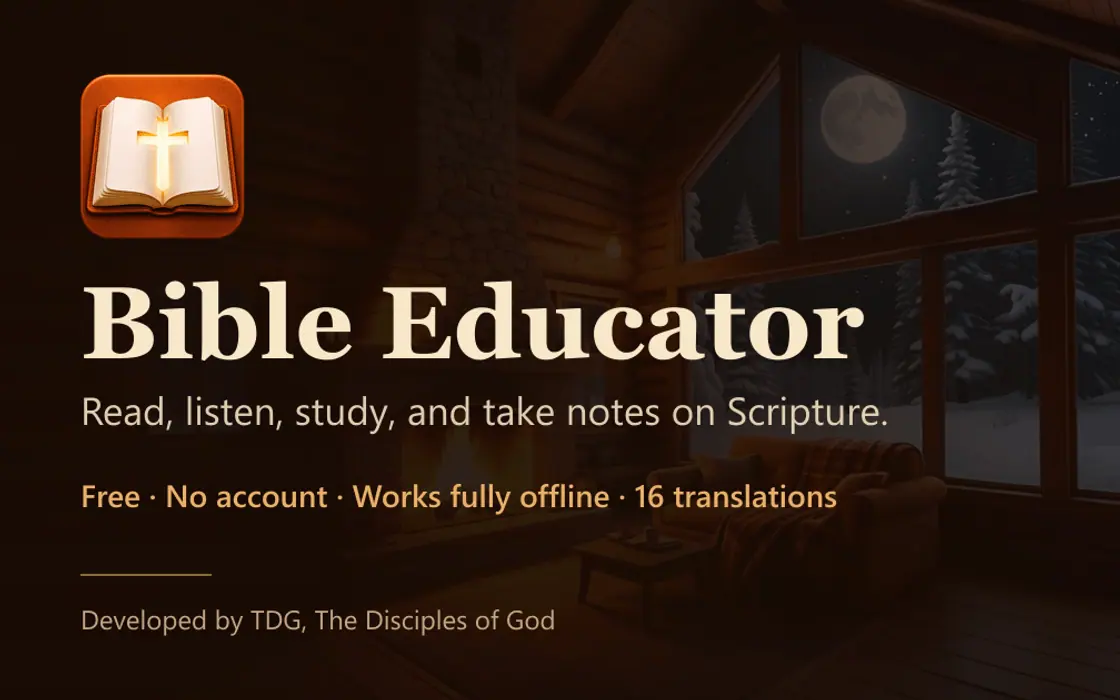
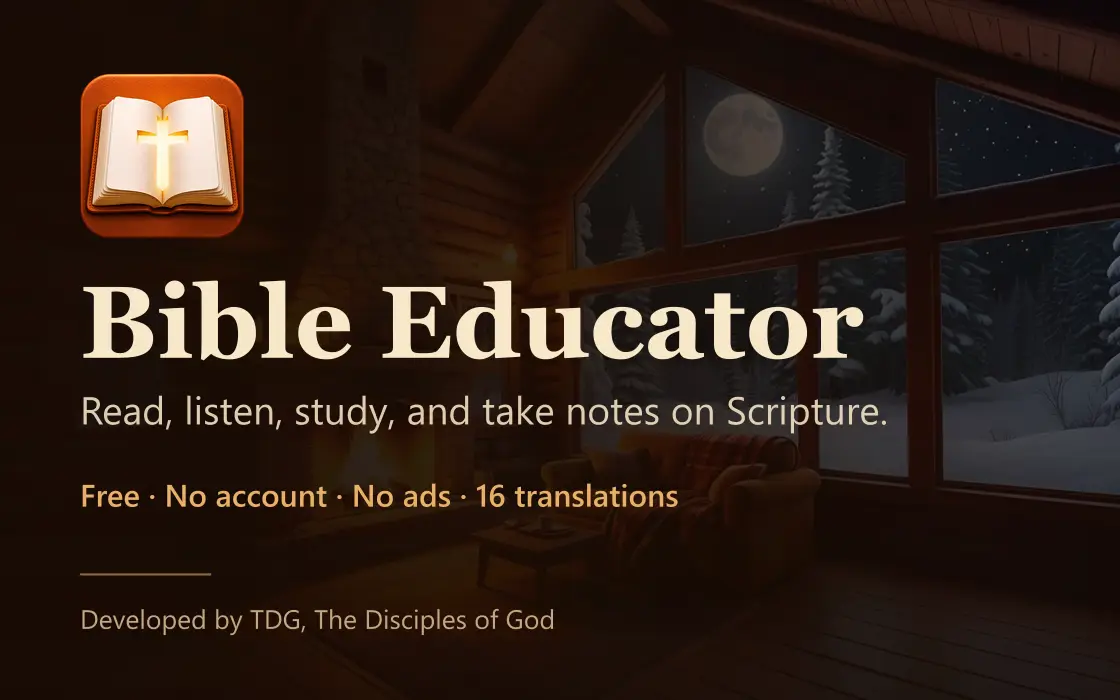
Bible Educator stops being sold as an offline app, cover included (v2.38.1)
Bible Educator cannot promise offline use yet, and this site was making that
promise in five places — the app card's copy and its OFFLINE chip, the app
page's lede, intro, an entire "Offline" fact row and a "Download one for
offline" step, the signpost line on the About page, and the README table.

The loudest one was the cover itself: shots/bible-educator-* had "Works fully
offline" baked into the pixels, so no amount of editing this repo's copy would
have taken it off the page.

That cover is Bible Educator's own share card drawn a second time by hand,
which is exactly why it went stale — nobody edits this repo when that app
changes. It is now GENERATED from that app's one set of constants
(`npm run og -- --cover <this repo>/public/shots` in Bible-Educator; the
measurement is its design at 700/630 on a 1120x700 canvas), so the two cannot
drift apart again. Composition, icon placement, type sizes and byte budget all
match what shipped before; only the fact strip changed, to
"Free · No account · No ads · 16 translations".

Say2Quill's and Makullveny's on-device claims are untouched — those are true
and are not this change's business. The one shared line on the About page kept
its point and dropped only the Bible Educator half.

package-lock.json was four releases stale at 2.34.0 and is synced to 2.38.1
alongside package.json. `npm run build` is clean.

diff --git a/src/data/appPages.ts b/src/data/appPages.ts
@@ -65,9 +65,9 @@ const BIBLE_EDUCATOR: AppPage = {
   backHash: '#apps',
   backLabel: 'Apps',
   title: 'Bible Educator',
-  lede: 'Bible Educator is for reading, listening to, studying and taking real notes on Scripture, all in one place. It opens in a browser, installs like an app, and once you have downloaded a translation it works with no connection at all.',
+  lede: 'Bible Educator is for reading, listening to, studying and taking real notes on Scripture, all in one place. It opens in a browser, installs like an app, and a whole translation can be downloaded to your own device.',
   intro:
-    'Sixteen public-domain translations are readable straight away and each one can be downloaded whole for offline use. Everything you write, highlight and save stays on your own device.',
+    'Sixteen public-domain translations are readable straight away and each one can be downloaded whole to your device. Everything you write, highlight and save stays on your own device.',
   facts: [
     {
       label: 'Where it runs',
@@ -75,8 +75,8 @@ const BIBLE_EDUCATOR: AppPage = {
         'Any modern browser, on a phone, tablet or computer. Nothing to install, and it can be added to your home screen or desktop so it opens in its own window',
     },
     {
-      label: 'Offline',
-      value: 'Full, once a translation is downloaded. A download is stored by the browser you did it in',
+      label: 'Downloads',
+      value: 'A whole translation in one file, stored by the browser you downloaded it in',
     },
     { label: 'Price', value: 'Free, and no account is needed to use it' },
     { label: 'Status', value: 'In development — the current build is live to try' },
@@ -104,8 +104,8 @@ const BIBLE_EDUCATOR: AppPage = {
               text: 'Settings then Bible lists all sixteen. The NIV and NASB are listed too, and are honestly marked as needing a licence we do not have, so their text is never bundled or downloaded.',
             },
             {
-              title: 'Download one for offline',
-              text: 'Each translation is a one-file install with progress, retry and cancel. After it lands, that version reads with the network off, and its footnotes and cross-references come with it.',
+              title: 'Download one to your device',
+              text: 'Each translation is a one-file install with progress, retry and cancel. After it lands, that version reads from your own device, and its footnotes and cross-references come with it.',
             },
             {
               title: 'Install it as an app',
@@ -179,7 +179,7 @@ const BIBLE_EDUCATOR: AppPage = {
           items: [
             {
               name: 'Your device’s voices',
-              text: 'Always available, work offline, and cost nothing. This is what it uses out of the box.',
+              text: 'Always available, run on your own device, and cost nothing. This is what it uses out of the box.',
             },
             {
               name: 'Natural voices',

diff --git a/src/data/content.ts b/src/data/content.ts
@@ -184,7 +184,7 @@ export type KeyArtSpec = {
    * Keep the joined strip under about 56 characters. It is drawn as one line of
    * SVG text, which cannot wrap, so a long one runs off the right edge instead
    * of reflowing. Bible Educator's own strip is the length to match: `Free · No
-   * account · Works fully offline · 16 translations`.
+   * account · No ads · 16 translations`.
    */
   facts: string[]
   /** Which backdrop `KeyArt` draws. */
@@ -338,14 +338,14 @@ export const APPS: AppCard[] = [
     repo: 'Bible-Educator',
     backend: 'bea',
     title: 'Bible Educator',
-    copy: 'Open a passage, have it read aloud while you follow, and mark it up as you go. Download any of the 16 translations once and the whole thing keeps working with the internet off.',
+    copy: 'Open a passage, have it read aloud while you follow, and mark it up as you go. Any of the 16 translations can be downloaded to your device in one file.',
     icon: 'icon-bible-educator.webp',
     iconShape: 'glyph',
     chips: [
       { label: 'PWA' },
       { label: 'IN DEV', hot: true },
       { label: 'FREE · NO ACCOUNT' },
-      { label: 'OFFLINE' },
+      { label: 'NO ADS' },
     ],
     status: 'Coming soon',
     slotPlaceholder: 'Drop a Bible Educator screenshot',

diff --git a/src/data/about.ts b/src/data/about.ts
@@ -108,7 +108,7 @@ export const ABOUT: AboutPage = {
             },
             {
               name: 'It keeps working when the connection does not',
-              text: 'Anything we build to run on your own machine runs offline. Bible Educator reads a translation you have downloaded with the network unplugged, and Say2Quill transcribes with it unplugged too.',
+              text: 'Anything we build to run on your own machine runs offline. Say2Quill turns your voice into text with the network unplugged, because the model sits on your machine and not on ours.',
             },
             {
               name: 'An account is not the price of entry',
@@ -141,7 +141,7 @@ export const ABOUT: AboutPage = {
           items: [
             {
               name: 'Bible Educator',
-              text: 'Reading, listening to and studying Scripture, with notes you can write and draw in. Sixteen translations, and it works offline once you download one.',
+              text: 'Reading, listening to and studying Scripture, with notes you can write and draw in. Sixteen translations, free, and no account needed.',
               href: '#/app/bible-educator',
             },
             {

diff --git a/README.md b/README.md
@@ -131,7 +131,7 @@ a card's caption becomes a real button the moment a deploy answers, and says
 
 | # | Project | What it does | Status |
 |:--|:--|:--|:--|
-| 01 | **Bible Educator** | Read, listen, study and take real notes on Scripture. 16 translations, fully offline once downloaded. | 🟢 Live to try |
+| 01 | **Bible Educator** | Read, listen, study and take real notes on Scripture. 16 translations, notes you can draw in, no account. | 🟢 Live to try |
 | 02 | **Say2Quill** | Press one key, speak, and clean punctuated text lands wherever your cursor is. On-device. | 🟡 In dev |
 | 03 | **Makullveny** | A calm desk for studying: your own books, a syllabus turned into dates, flashcards, nine themes. | 🟢 **Released** · [download](https://tdg-org.github.io/makullveny-site/#download) |
 | 04 | **DevFleet** | Every git repo on your machine as a live card, up to sixteen panes at once. | 🟡 In dev |
